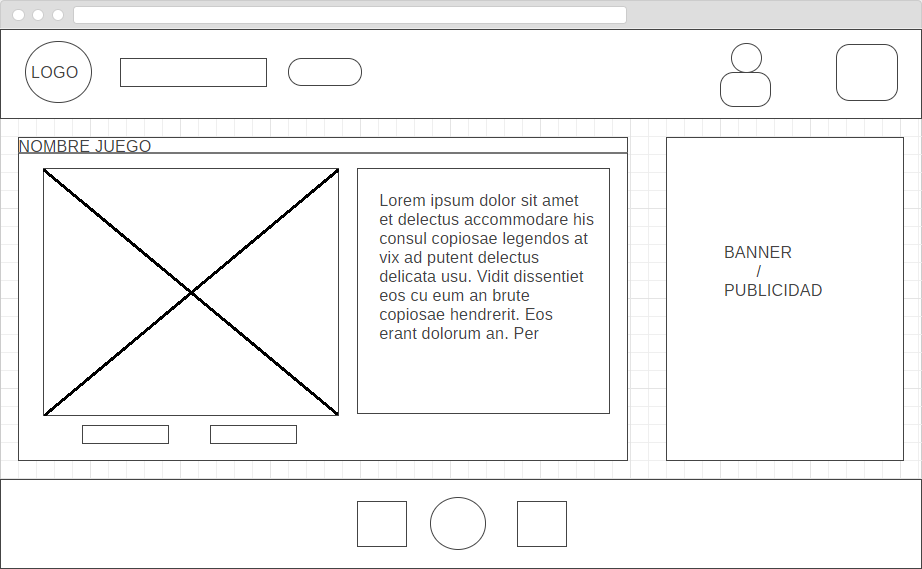
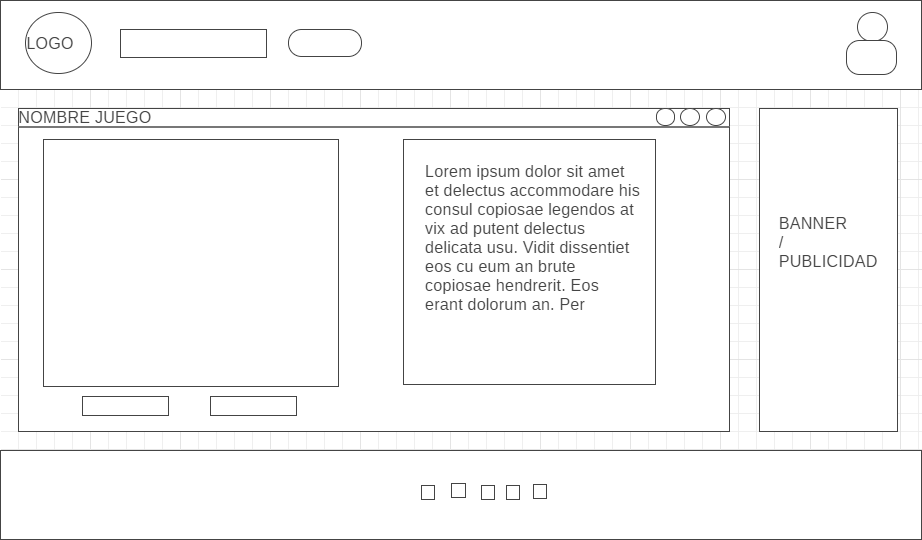
Agregado carga de tarjeta de crédito

diff --git a/Web/html/cargartj.html b/Web/html/cargartj.html
@@ -1,0 +1,30 @@
+					  			<form>
+								  	<div class="form-group formtj">
+								    	<label for="formGroupExampleInput">Número de tarjeta</label>
+								    	<input type="text" class="form-control buyform" id="formGroupExampleInput" placeholder="">
+								  	</div>
+								  	<div class="form-group formtj">
+								    	<label for="formGroupExampleInput2">Nombre y apellido</label>
+								    	<input type="text" class="form-control buyform" id="formGroupExampleInput2" placeholder="">
+								  	</div>
+								  	<div class="row">
+									    <div class="col">
+									    	<div class="form-group formtj">
+								    			<label for="formGroupExampleInput3">Vencimiento</label>
+								    			<input type="date" class="form-control buyform buyformshort" id="formGroupExampleInput3" placeholder="">
+								  			</div>
+									    </div>
+									    <div class="col">
+									      	<div class="form-group codseg formtj">
+								    			<label for="formGroupExampleInput4">Código de seg.</label>
+								    			<input type="text" class="form-control buyform buyformshort" id="formGroupExampleInput4" placeholder="">
+								  			</div>
+								  			<div class="form-group tittj formtj">
+								    			<label for="formGroupExampleInput5">DNI del titular de la tarjeta</label>
+								    			<input type="text" class="form-control buyform" id="formGroupExampleInput5" placeholder="">
+								  			</div>
+									    </div>
+									</div>
+								</form>
+								<img class="tjdecr" src="images/tarjetascredito.png">
+								<button class="btn btn-primary conftj">Confirmar</button>

diff --git a/Web/js/script.js b/Web/js/script.js
@@ -196,6 +196,20 @@
 																							$(".profcontainer").fadeIn(250);
 																							$(".misjuegos").removeClass("active");
 																							$(".saldo").addClass("active");
+
+																							$(".cargartj").on("click", function(e) {
+																								e.preventDefault();
+																								$.ajax({
+																										"url" : "./html/cargartj.html",
+																										"method" : "GET",
+																										"dataType" : "HTML",
+																										"success" : function(data) {
+																											$(".profcontainer").html(data);
+																											$(".profcontainer").hide();
+																											$(".profcontainer").fadeIn(250);
+																										}
+																								});
+																							});
 																						}
 																					});
 																				});

diff --git a/Web/css/style.css b/Web/css/style.css
@@ -255,18 +255,29 @@ footer {
 	margin-left: 77.5%;
 }
 .buyform {
-	width: 300px;
+	width: 260px;
 }
 .buyformshort {
-	width: 145px;
+	width: 115px;
+}
+.formtj {
+	margin-top: -0.5%;
 }
 .tjdecr {
 	max-width: 65%;
-	margin-top: -73%;
-	margin-left: 42.3%;
+	margin-top: -78.5%;
+	margin-left: 39%;
 }
 .codseg {
 	margin-left: -62%;
+}
+.tittj {
+	margin-top: -2%;
+	margin-left: -110%;
+}
+.conftj {
+	margin-top: -23%;
+	margin-left: 63%;
 }
 .confvolver, .slconfvolver {
 	width: 115px;
@@ -814,7 +825,6 @@ a.account {
 	width: 121px;
 	margin: -11px 0 0 -10px;
 	text-decoration: none;
-	background: url(images/arrow.png) 80px 32px no-repeat;
 	cursor:pointer;
 }
 .root

diff --git a/Web/html/comprasl2.html b/Web/html/comprasl2.html
@@ -1,6 +1,9 @@
 			<div class="row">
 				<div class="col-md-9 col-xs-9 col-lg-9">
 					<div class="card recomm recommbuy">
+						<div class="breadcrumb1">
+							<i class="fas fa-circle actualstep"></i><i class="fas fa-circle"></i><i class="fas fa-circle"></i>
+						</div>
 						<h5 class="card-title recommtitle">Iniciar sesión / Registro</h5>
 						<p class="line buyline">_________________________________________________________________</p>
 					  	<div class="card-body">

diff --git a/Web/html/comprasl.html b/Web/html/comprasl.html
@@ -1,6 +1,9 @@
 			<div class="row">
 				<div class="col-md-9 col-xs-9 col-lg-9">
 					<div class="card recomm recommbuy">
+						<div class="breadcrumb1">
+							<i class="fas fa-circle actualstep"></i><i class="fas fa-circle"></i><i class="fas fa-circle"></i>
+						</div>
 						<h5 class="card-title recommtitle">Doom</h5>
 						<p class="line buyline">_________________________________________________________________</p>
 					  	<div class="card-body">
